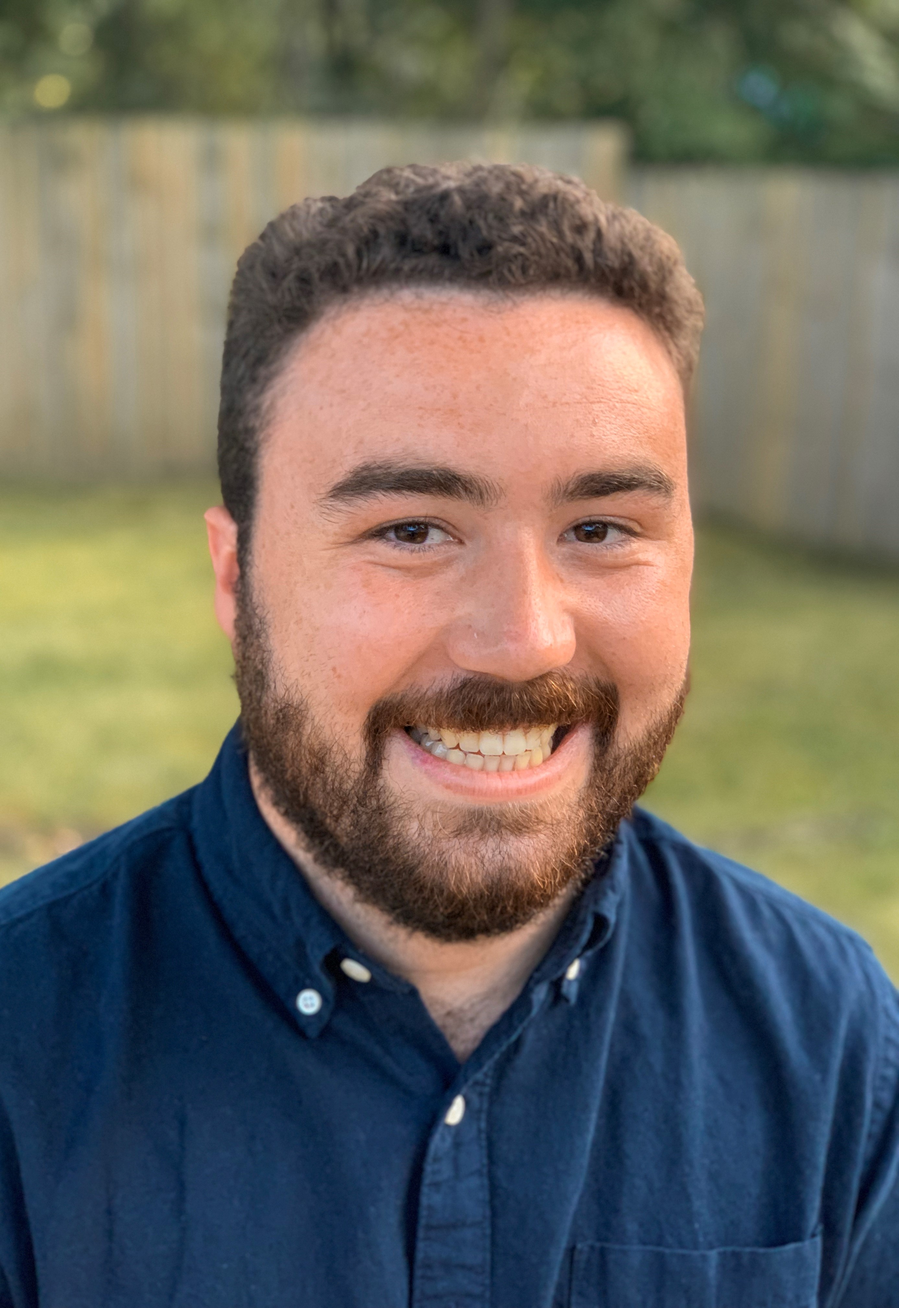
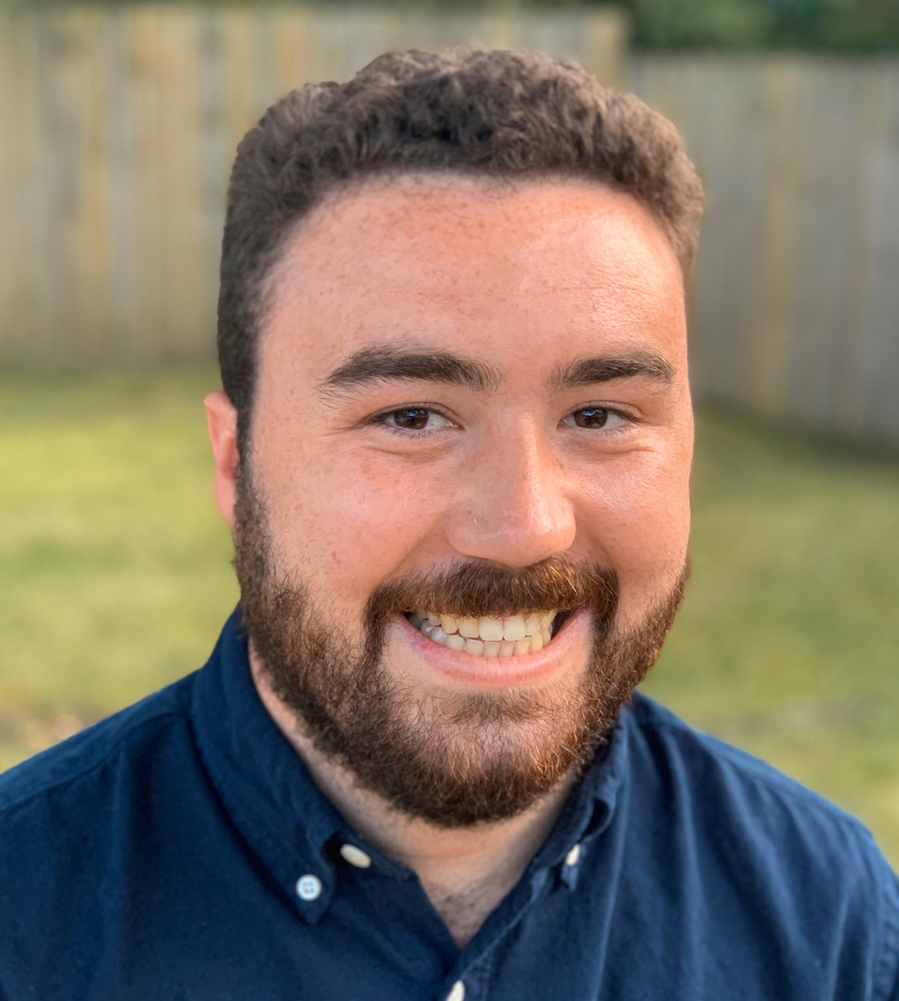
changes

diff --git a/index.html b/index.html
@@ -49,7 +49,7 @@
         }
 
         .jumbotron {
-            background-color:#eeebf8 !important; 
+            background-color:#d7e4f4 !important; 
         }
 
         .socialicon {
@@ -87,24 +87,24 @@
     <div class="jumbotron jumbotron-fluid" style="margin-bottom: 0; padding-bottom: 0;">
         <div class="container">
             <div class="row">
-                <div class="col-sm-4">
-                    <div class="text-center" style="padding-bottom: 15px;">
-                        <img src="./figs/profile.png" class="rounded my-2" style="width: 175px; height:auto;" alt="Profile Picture">
-                    </div>
-                </div>
                 <div class="col-sm-8">
                     <div class="text-sm-left text-center">
                         <h1>Connor Ligeikis</h1>
                         <p><b>PhD Candidate, NSF Graduate Research Fellow</b><br>
                             Department of Civil and Environmental Engineering<br>
                             University of Michigan, Ann Arbor<br>
-                            Email: <a href="mailto:rchandan@ucsb.edu"><tt>rchandan@ucsb.edu</tt></a>
+                            Email: <a href="mailto:ligeikis@umich.edu"><tt>ligeikis@umich.edu</tt></a>
                         </p>
                         <div class="socialicongroup">
                             <a href="https://scholar.google.com/citations?user=TvO0cnsAAAAJ&hl=en"><i class="ai ai-google-scholar ai-2x socialicon"></i></a>
                             <a href="https://www.linkedin.com/in/connor-ligeikis"><i class="fa fa-linkedin fa-2x socialicon"></i></a>
                             <a href="./misc/ConnorLigeikisCV.pdf"><i class="ai ai-cv ai-2x socialicon"></i></a>
                         </div>
+                    </div>
+		</div>
+		<div class="col-sm-4">
+                    <div class="text-center" style="padding-bottom: 15px;">
+                        <img src="./figs/profile.jpg" class="rounded my-2" style="width: 175px; height:auto;" alt="Profile Picture">
                     </div>
                 </div>
             </div>
@@ -120,7 +120,7 @@
                         <button class="nav-link" id="publications-tab" data-toggle="tab" href="#publications" type="button" role="tab" aria-controls="publications" aria-selected="false">Publications</button>
                     </li>
                     <li class="nav-item" role="presentation"> 
-                        <button class="nav-link" id="software-tab" data-toggle="tab" href="#software" type="button" role="tab" aria-controls="software" aria-selected="false">Software</button>
+                        <button class="nav-link" id="teaching-tab" data-toggle="tab" href="#teaching" type="button" role="tab" aria-controls="teaching" aria-selected="false">Teaching</button>
                     </li>
                 </ul>
             </div>
@@ -132,8 +132,7 @@
             <div class="tab-pane fade show active" id="home" role="tabpanel" aria-labelledby="home-tab">
                 <div>
                     <p class="text-justify">
-                        I am a PhD student in the Department of Electrical and Computer Engineering, University of California, Santa Barbara.
-                        My supervisor is <a href="https://www.ece.ucsb.edu/~jrmarden/index.html">Jason Marden</a>.  Previously, I completed my BASc in Engineering Science (Electrical and Computer Engineering Option) with a minor in Robotics and Mechatronics at the University of Toronto.
+                        I am a PhD student in the Department of Civil and Environmental Engineering at the University of Michigan, advised by <a href="https://cee.engin.umich.edu/people/scruggs-jeff/">Prof. Jeff Scruggs</a>.  Previously, I completed my BSE and MS in Civil Engineering at the University of Connecticut. I also received a second MS in Electrical and Computer Engineering from the University of Michigan.
                     </p>
                 </div>
                 <div>
